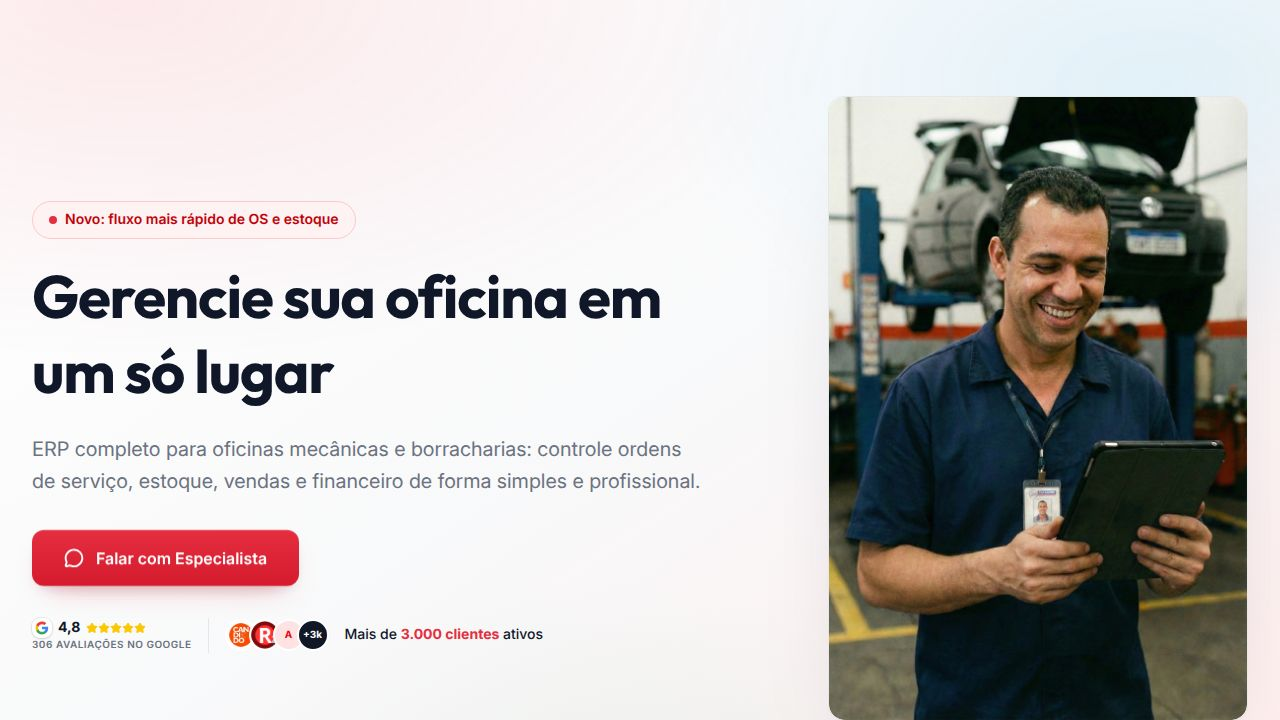
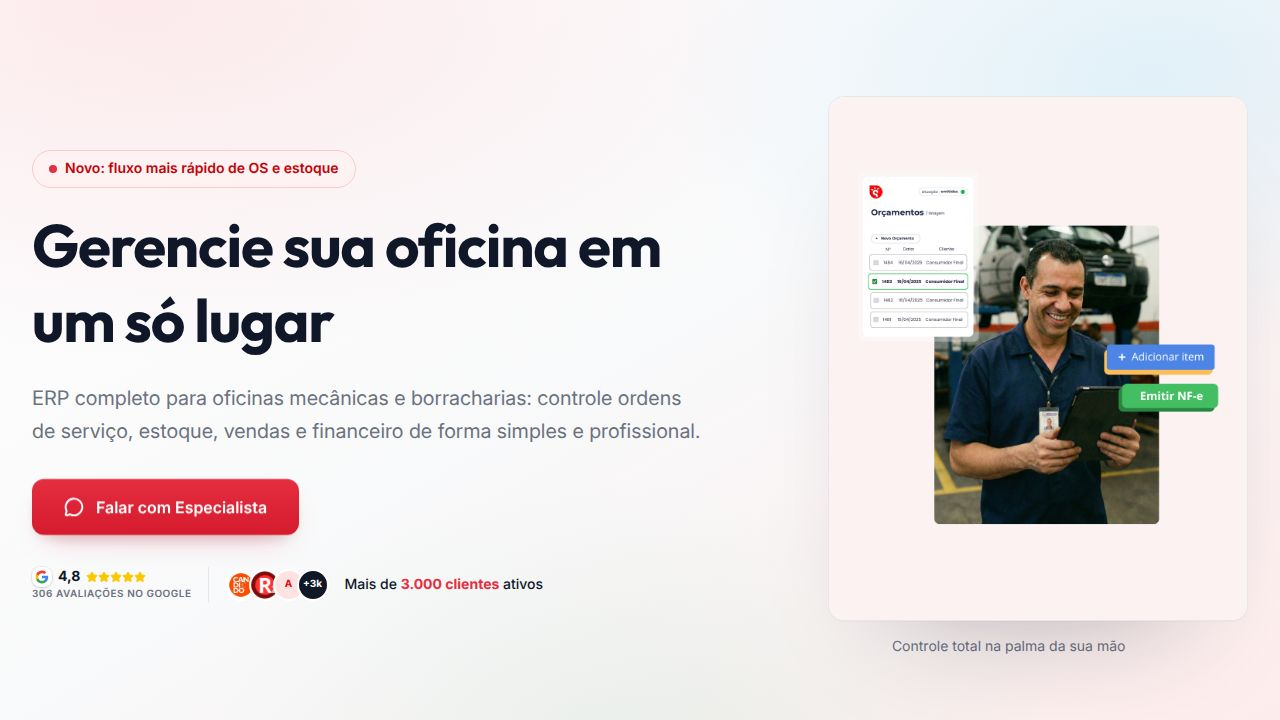
Update the main image shown on the landing page
Replaces the existing hero image in `client/src/pages/landing.tsx` with a new one (`Notas_Fiscais_(1)_1769565934011.png`).

Replit-Commit-Author: Agent
Replit-Commit-Session-Id: 7b773cb9-9a47-41f8-8ae4-a4f4207d9478
Replit-Commit-Checkpoint-Type: full_checkpoint
Replit-Commit-Event-Id: cd5e8f07-1674-430f-a65c-e19515d69eb6
Replit-Commit-Screenshot-Url: https://storage.googleapis.com/screenshot-production-us-central1/b8ae16c3-b244-4695-b191-f119d4070242/7b773cb9-9a47-41f8-8ae4-a4f4207d9478/IeDxcdK
Replit-Helium-Checkpoint-Created: true

diff --git a/client/src/pages/landing.tsx b/client/src/pages/landing.tsx
@@ -3,7 +3,7 @@ import { CheckCircle, ClipboardX, AlertTriangle, TrendingDown, MessageCircle, Wr
 
 import heroDashboard from "@/assets/images/hero-dashboard.png";
 import previewGrid from "@/assets/images/preview-grid.png";
-import heroMechanic from "@assets/Gemini_Generated_Image_gdgm8egdgm8egdgm_1769460231983.jpg";
+import heroMainImage from "@assets/Notas_Fiscais_(1)_1769565934011.png";
 import logoCandido from "@assets/logo_candido_1769545514098.jpg";
 import logoRz from "@assets/R_1769551366605.png";
 
@@ -204,7 +204,7 @@ function Hero() {
                 <div className="absolute inset-0 bg-gradient-to-tr from-white/0 via-white/0 to-red-50/60 opacity-70" />
                 <img
                   data-testid="img-hero-dashboard"
-                  src={heroMechanic}
+                  src={heroMainImage}
                   alt="Mecânico usando o sistema"
                   className="btn-transition h-auto w-full origin-center rounded-2xl object-cover"
                 />
